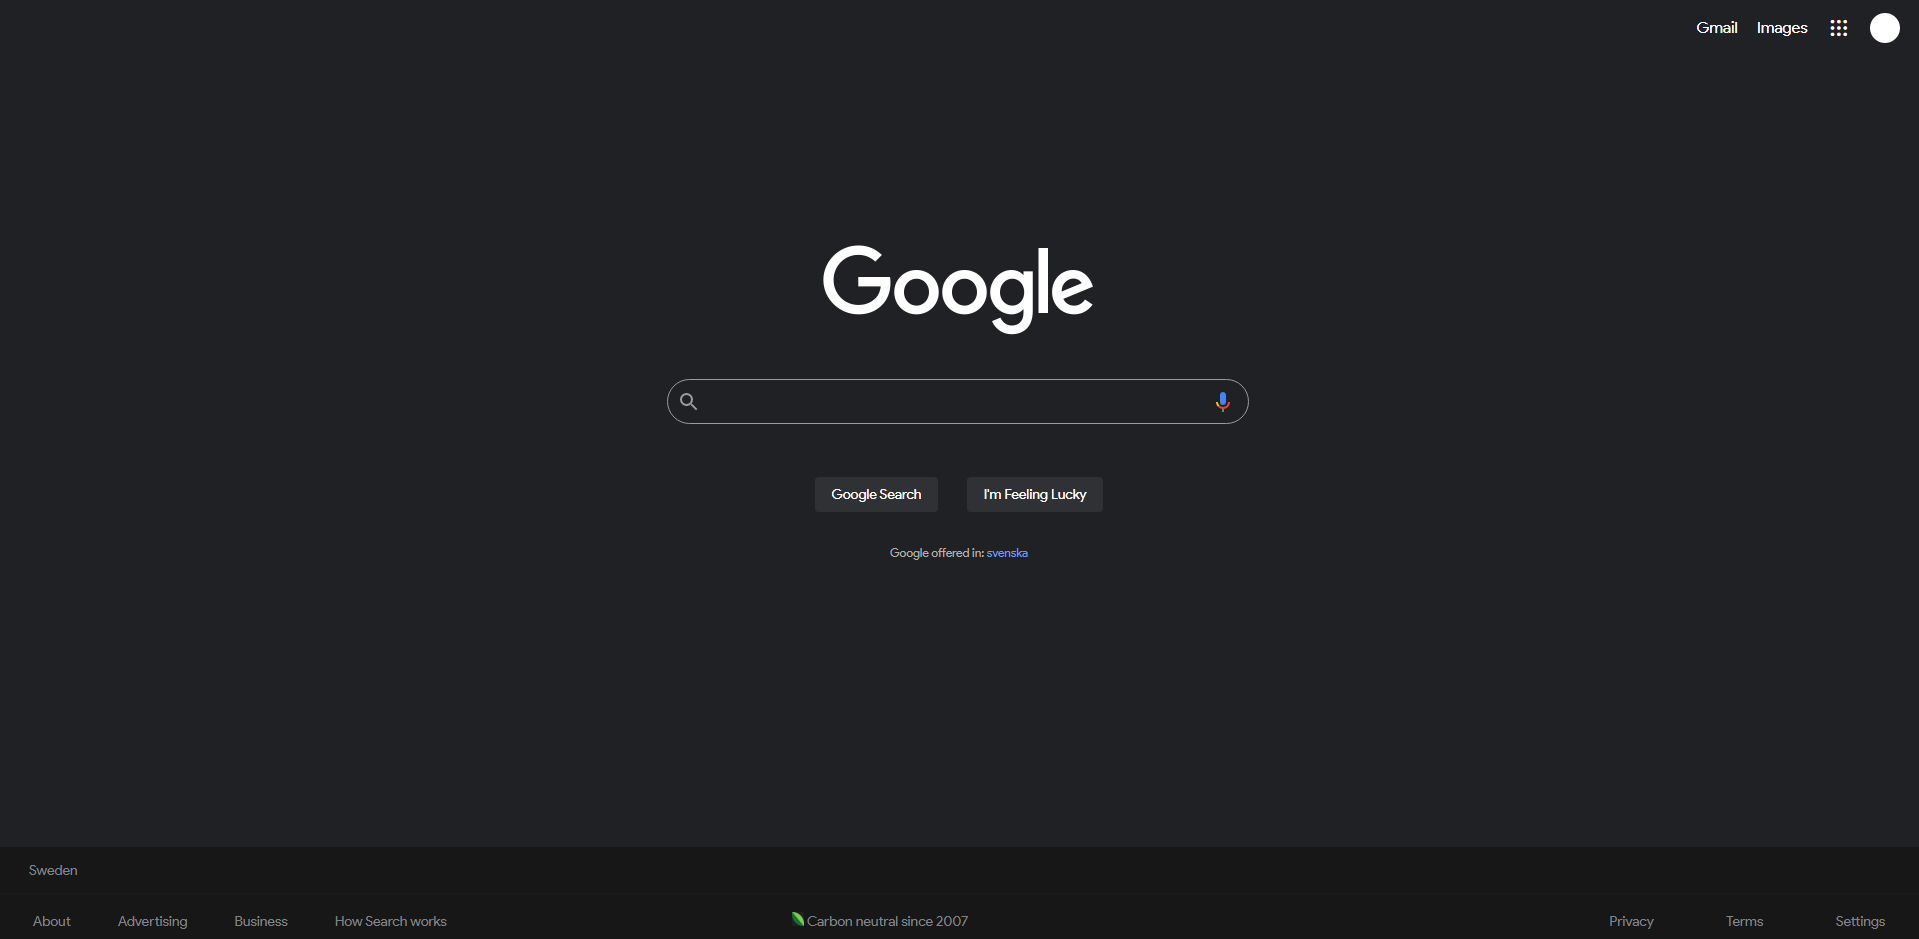
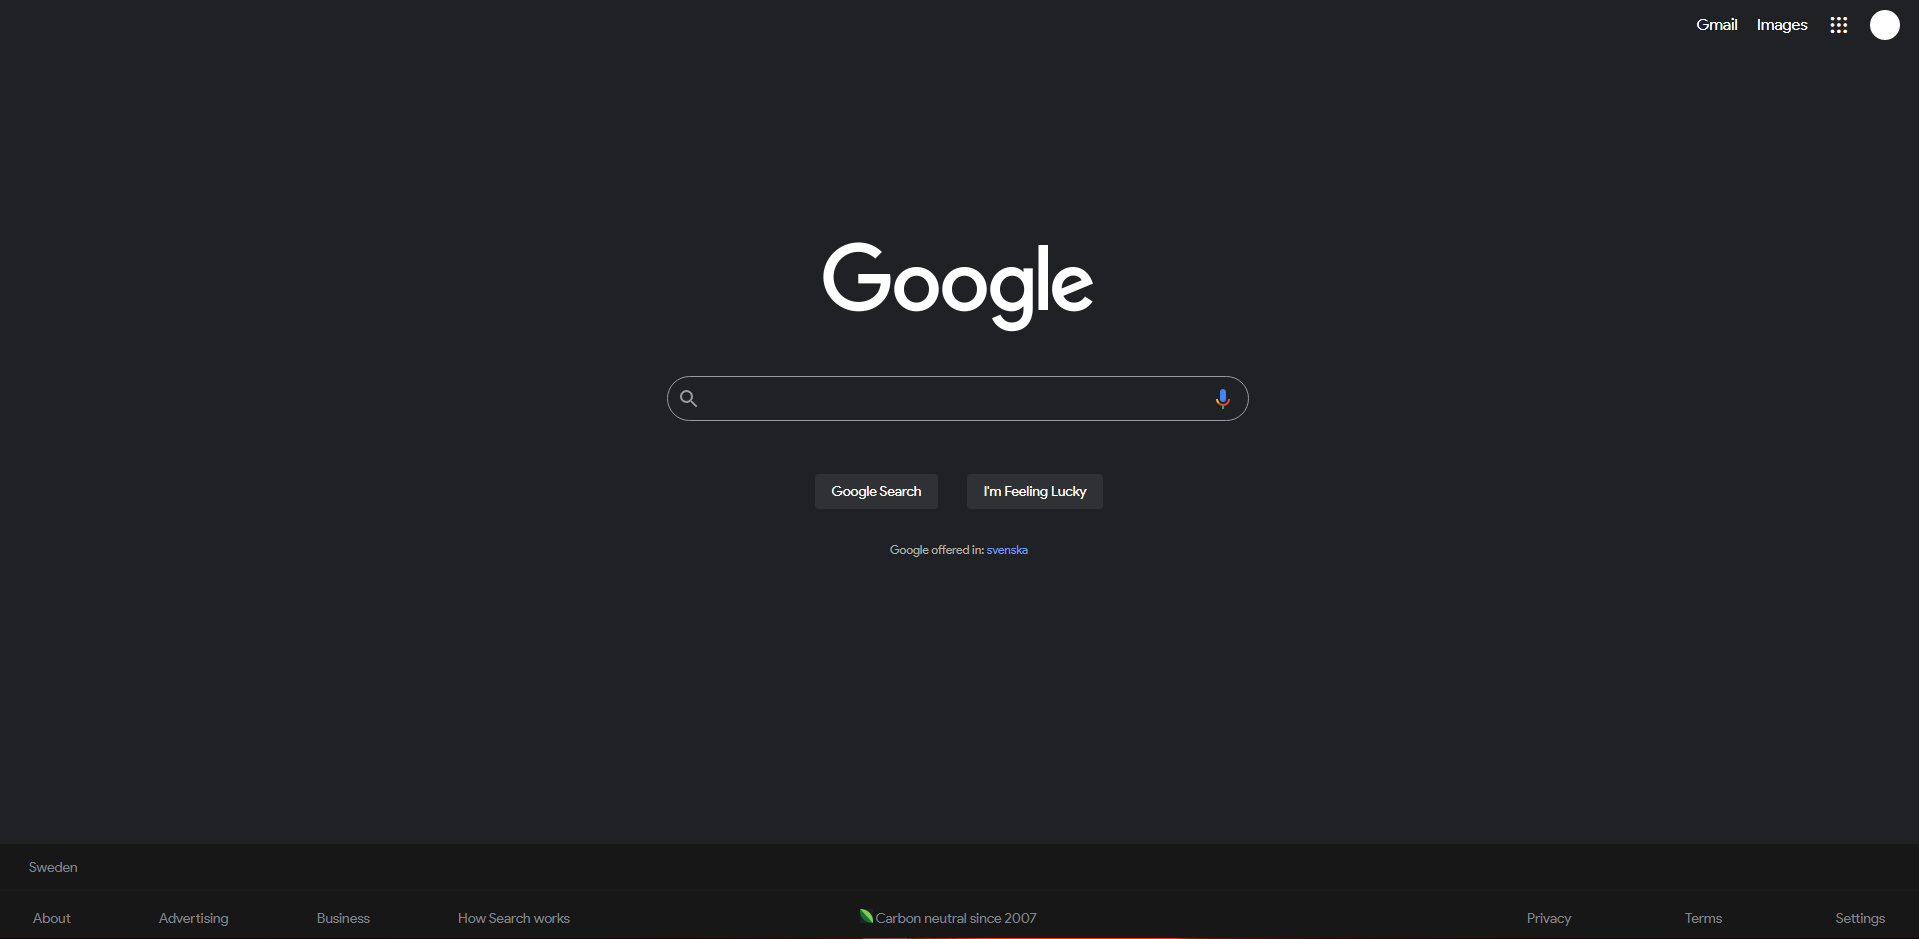
Fixed footer gap

diff --git a/style.css b/style.css
@@ -181,7 +181,7 @@ footer div {
   flex-direction: row;
   flex-wrap: wrap;
   justify-content: space-between;
-  gap: 15vw;
+  gap: 10vw;
   row-gap: 0;
 }
 #footerT {
